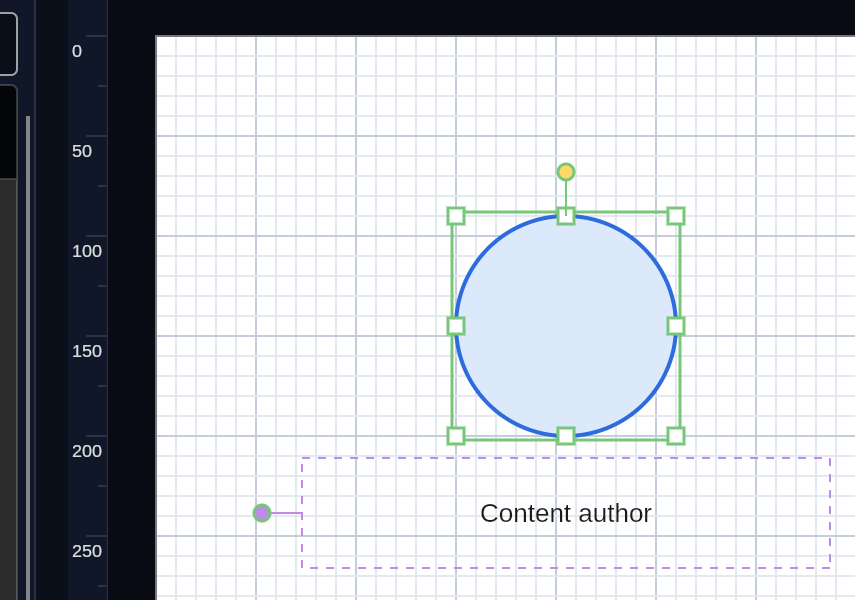
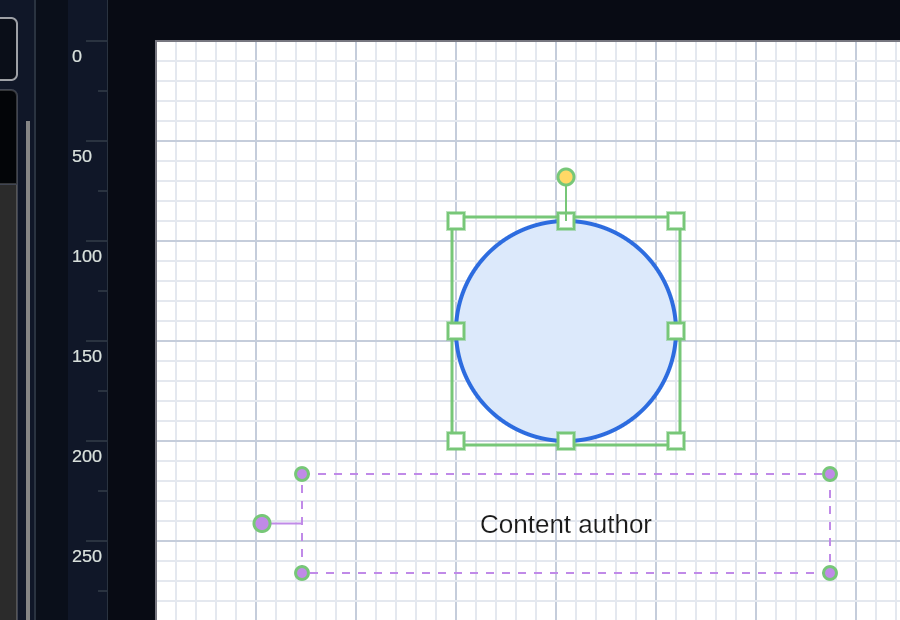
Stretch the block a label is wrapped into
Moving a label off its shape was only half of it: the block kept whatever size
it came with, so a label taken off a narrow shape went on wrapping to that
shape's width, which is the very case the moving was for.

The block now has corners. They appear only once the label has been given a
block of its own - while the block is still simply the shape, its corners sit
exactly on the shape's own, and whichever of the two won the hit test the
other could never be grabbed. Rather than pick a winner and leave a spot where
the shape cannot be resized, the corners wait until there is something to
resize. Where a moved block does overlap the shape, the label wins: it is the
thing that was deliberately put there.

Round and violet, against the shape's square handles in the desktop's accent
colour and the turn handle's fixed yellow. Three kinds of handle meaning three
different things, and none of which should be taken for another.

The stretch goes through the same Resize the shape's own handles use, so the
block snaps to the grid and has a floor like anything else, and it is measured
in the shape's upright frame - stretch the block of a turned shape and it
widens along the shape rather than across the screen.

Claude-Session: https://claude.ai/code/session_011QcvFd8BztkNFq5SBWJ6Ht

Changed region(s): [[0.152, 0.06, 1.0, 1.0], [0.0, 0.0, 0.1216, 1.0]]

diff --git a/AVASvgMaker/Views/DrawingCanvas.cs b/AVASvgMaker/Views/DrawingCanvas.cs
@@ -42,6 +42,7 @@ public class DrawingCanvas : Decorator
         ResizingSelection,
         Rotating,
         MovingLabel,
+        SizingLabel,
         DrawingConnector,
         Marquee
     }
@@ -717,6 +718,31 @@ public class DrawingCanvas : Decorator
         ReportStatus();
     }
 
+    /// <summary>
+    /// Stretches the block the label is wrapped into. It is measured in the shape's upright
+    /// frame and then kept as fractions of the shape, the same as the block's position, so a
+    /// block widened on a turned shape widens along the shape rather than across the screen.
+    /// </summary>
+    private void SizeLabel(DiagramShape shape, Point pagePoint)
+    {
+        var box = shape.Bounds;
+
+        if (box.Width <= 0 || box.Height <= 0)
+            return;
+
+        var area = Resize(_dragStartBounds, _activeHandle, shape.Unrotate(pagePoint));
+
+        shape.TextFrame = new Rect(
+            (area.X - box.X) / box.Width,
+            (area.Y - box.Y) / box.Height,
+            area.Width / box.Width,
+            area.Height / box.Height);
+
+        _dragChanged = true;
+        InvalidateVisual();
+        ReportStatus();
+    }
+
     /// <summary>Puts every selected shape's label back in the middle of the shape.</summary>
     public void ResetLabels()
     {
@@ -735,6 +761,51 @@ public class DrawingCanvas : Decorator
 
         InvalidateVisual();
     }
+
+    /// <summary>
+    /// The corners of the block the label is wrapped into, for dragging it wider or taller.
+    /// Only for a label that has been given a block of its own: while the block is simply the
+    /// shape, its corners would sit exactly on the shape's own and neither could be grabbed.
+    /// </summary>
+    private Rect[] LabelHandles(DiagramShape shape)
+    {
+        if (shape.TextFrame is null || LabelGrip(shape) is null)
+            return [];
+
+        var area = shape.LabelArea;
+
+        return
+        [
+            HandleRect(Turned(shape, new Point(area.Left, area.Top)), 0.8),
+            HandleRect(Turned(shape, new Point(area.Right, area.Top)), 0.8),
+            HandleRect(Turned(shape, new Point(area.Right, area.Bottom)), 0.8),
+            HandleRect(Turned(shape, new Point(area.Left, area.Bottom)), 0.8)
+        ];
+    }
+
+    /// <summary>Which corner of the label's block is under the pointer, if any.</summary>
+    private int LabelHandleAt(Point pagePoint)
+    {
+        if (Document.Selection.Count != 1 || Document.Selected is not { } shape)
+            return -1;
+
+        var handles = LabelHandles(shape);
+
+        for (var i = 0; i < handles.Length; i++)
+            if (handles[i].Inflate(Screen(2)).Contains(pagePoint))
+                return i;
+
+        return -1;
+    }
+
+    /// <summary>A corner of the label's block, as one of the eight a shape is resized by.</summary>
+    private static int LabelCorner(int index) => index switch
+    {
+        1 => 2,
+        2 => 4,
+        3 => 6,
+        _ => 0
+    };
 
     /// <summary>
     /// The grip that moves the label, and - once the label has been moved off the shape - the
@@ -766,6 +837,11 @@ public class DrawingCanvas : Decorator
 
         context.DrawLine(pen, Turned(shape, new Point(area.Left, area.Center.Y)), grip.Center);
         context.DrawEllipse(LabelHandleBrush, outline, grip.Center, grip.Width / 2, grip.Height / 2);
+
+        // Round, and in the label's own colour, so they are not taken for the shape's corners.
+        foreach (var handle in LabelHandles(shape))
+            context.DrawEllipse(LabelHandleBrush, outline, handle.Center,
+                handle.Width / 2, handle.Height / 2);
     }
 
     /// <summary>
@@ -1234,6 +1310,19 @@ public class DrawingCanvas : Decorator
             return;
         }
 
+        // A corner of the label's block, before the shape's own corners: where the two overlap
+        // the label is the one that has been deliberately put there.
+        if (LabelHandleAt(pagePoint) is var corner and >= 0 && Document.Selected is { } sizing)
+        {
+            _dragMode = DragMode.SizingLabel;
+            _activeHandle = LabelCorner(corner);
+            _dragStartBounds = sizing.LabelArea;
+
+            e.Pointer.Capture(this);
+            e.Handled = true;
+            return;
+        }
+
         var handle = HandleAt(pagePoint);
 
         if (handle >= 0 && Document.Selection.Count > 1)
@@ -1558,6 +1647,10 @@ public class DrawingCanvas : Decorator
 
             case DragMode.MovingLabel when Document.Selected is { } lettered:
                 MoveLabel(lettered, pagePoint);
+                return;
+
+            case DragMode.SizingLabel when Document.Selected is { } stretching:
+                SizeLabel(stretching, pagePoint);
                 return;
 
             case DragMode.Rotating when Document.Selected is { } turning:
@@ -2010,6 +2103,12 @@ public class DrawingCanvas : Decorator
             LabelGrip(lettered) is { } gripped && gripped.Inflate(Screen(2)).Contains(pagePoint))
         {
             Cursor = new Cursor(StandardCursorType.SizeAll);
+            return;
+        }
+
+        if (LabelHandleAt(pagePoint) is var labelCorner and >= 0)
+        {
+            Cursor = new Cursor(HandleCursors[LabelCorner(labelCorner)]);
             return;
         }
 

diff --git a/AVASvgMaker.Tests/LabelFrameTests.cs b/AVASvgMaker.Tests/LabelFrameTests.cs
@@ -146,6 +146,105 @@ public class LabelFrameTests
         Assert.Equal(shape.Bounds, shape.LabelArea);
     }
 
+    /// <summary>A corner of the block the label is wrapped into.</summary>
+    private static Point Corner(DiagramShape shape, bool right, bool bottom)
+    {
+        var area = shape.LabelArea;
+
+        return new Point(right ? area.Right : area.Left, bottom ? area.Bottom : area.Top);
+    }
+
+    /// <summary>A shape whose label has been taken off it, ready to be stretched.</summary>
+    private static (DrawingCanvas Canvas, DiagramShape Shape) Moved()
+    {
+        var (canvas, shape) = Lettered();
+
+        Harness.Drag(canvas, Grip(canvas, shape), Grip(canvas, shape) + new Vector(0, 150));
+
+        return (canvas, shape);
+    }
+
+    [AvaloniaFact]
+    public void ALabelStillInItsShapeHasNoCornersToDrag()
+    {
+        // They would sit exactly on the shape's own, and neither could be grabbed.
+        var (canvas, shape) = Lettered();
+        var where = shape.Bounds;
+
+        Harness.Drag(canvas, Corner(shape, true, true), Corner(shape, true, true) + new Vector(80, 0));
+
+        Assert.Null(shape.TextFrame);
+        Assert.NotEqual(where, shape.Bounds);
+    }
+
+    [AvaloniaFact]
+    public void DraggingACornerOfTheBlockWidensIt()
+    {
+        var (canvas, shape) = Moved();
+        var was = shape.LabelArea;
+
+        Harness.Drag(canvas, Corner(shape, true, false), Corner(shape, true, false) + new Vector(100, 0));
+
+        Assert.Equal(was.Width + 100, shape.LabelArea.Width, 1);
+        Assert.Equal(was.Left, shape.LabelArea.Left, 1);
+    }
+
+    [AvaloniaFact]
+    public void WideningTheBlockLetsTheWordsRunFurtherBeforeTheyWrap()
+    {
+        // The point of the whole thing: a label taken off a narrow shape should not have to
+        // keep wrapping to that shape's width.
+        var (canvas, shape) = Moved();
+
+        shape.Text = "a good deal more text than will fit across it";
+
+        var before = shape.LabelArea.Width;
+        Harness.Drag(canvas, Corner(shape, true, false), Corner(shape, true, false) + new Vector(160, 0));
+
+        Assert.True(shape.LabelArea.Width > before + 100,
+            $"the block went from {before:0} to {shape.LabelArea.Width:0}");
+    }
+
+    [AvaloniaFact]
+    public void StretchingTheBlockLeavesTheShapeAlone()
+    {
+        var (canvas, shape) = Moved();
+        var where = shape.Bounds;
+
+        Harness.Drag(canvas, Corner(shape, true, true), Corner(shape, true, true) + new Vector(60, 60));
+
+        Assert.Equal(where, shape.Bounds);
+    }
+
+    [AvaloniaFact]
+    public void AStretchedBlockKeepsItsProportionsAsTheShapeResizes()
+    {
+        var (canvas, shape) = Moved();
+
+        Harness.Drag(canvas, Corner(shape, true, false), Corner(shape, true, false) + new Vector(100, 0));
+
+        var share = shape.LabelArea.Width / shape.Bounds.Width;
+
+        shape.Bounds = new Rect(shape.Bounds.X, shape.Bounds.Y, 400, 100);
+
+        Assert.Equal(share, shape.LabelArea.Width / shape.Bounds.Width, 3);
+    }
+
+    [AvaloniaFact]
+    public void StretchingALabelIsOneStepToUndo()
+    {
+        var (canvas, shape) = Moved();
+        var history = new UndoStack(canvas.Document);
+        var was = shape.LabelArea.Width;
+
+        Harness.Drag(canvas, Corner(shape, true, false), Corner(shape, true, false) + new Vector(100, 0));
+
+        Assert.True(history.CanUndo);
+        history.Undo();
+
+        Assert.Equal(was, canvas.Document.Shapes[0].LabelArea.Width, 1);
+    }
+
     [AvaloniaFact]
     public void AShapeWithNoWordsHasNothingToMove()
     {
